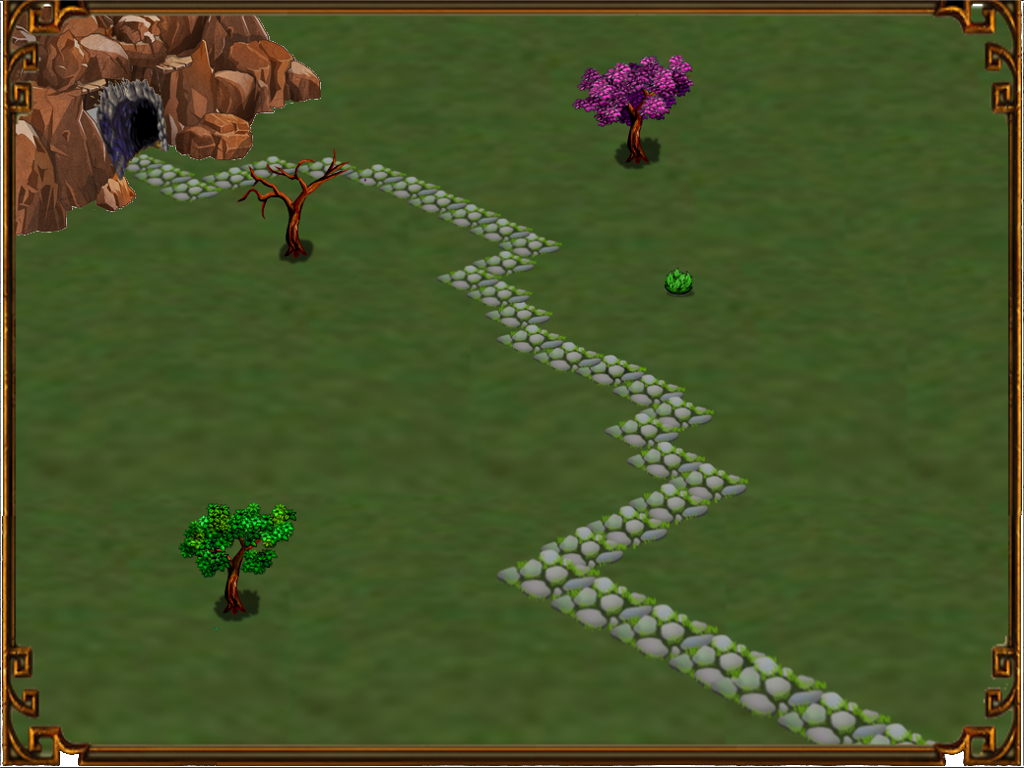
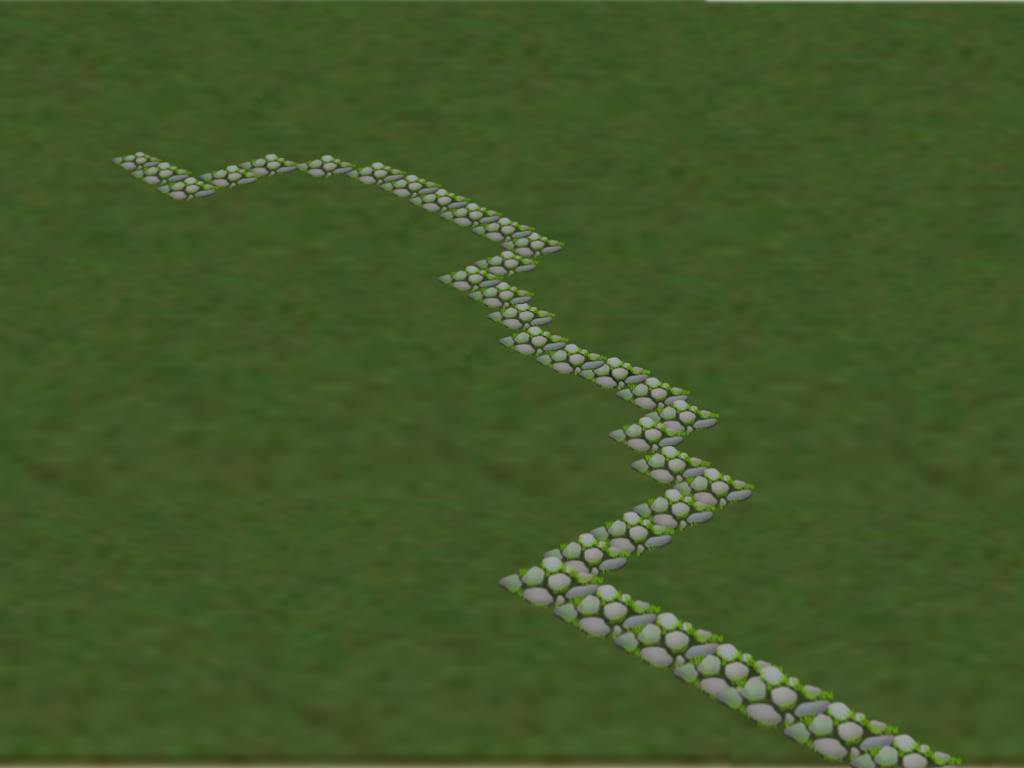
More object instead of background image

diff --git a/src/js/canvas/kineticjs.js b/src/js/canvas/kineticjs.js
@@ -1,5 +1,7 @@
-var kineticjs = function(){
+var kineticjs = function () {
+    var frameLayer = new Kinetic.FastLayer();
     var backgroundLayer = new Kinetic.Layer();
+    var landscapeLayer = new Kinetic.Layer();
     var playerLayer = new Kinetic.Layer();
 
     function loadImages(sources, callback) {
@@ -22,6 +24,23 @@
     }
 
     function buildStage(images) {
+        stage.add(frameLayer);
+        stage.add(backgroundLayer);
+        stage.add(landscapeLayer);
+        stage.add(playerLayer);
+
+        // Frame Layer
+        var frame = new Kinetic.Image({
+            x: 0,
+            y: 0,
+            image: images.frame,
+            width: 1024,
+            height: 768
+        });
+
+        frameLayer.add(frame);
+
+        // Background Layer
         var backgroundImage = new Kinetic.Image({
             x: 0,
             y: 0,
@@ -31,12 +50,8 @@
         });
 
         backgroundLayer.add(backgroundImage);
-        stage.add(backgroundLayer);
-        backgroundLayer.setZIndex(0);
-
         backgroundImage.cache();
         backgroundImage.filters([Kinetic.Filters.Brighten]);
-        backgroundLayer.draw();
 
         var slider = document.getElementById('slider');
         slider.onchange = function () {
@@ -44,6 +59,61 @@
             backgroundLayer.batchDraw();
         };
 
+        // Landscape Layer
+        var pinkTree = new Kinetic.Image({
+            x: 570,
+            y: 50,
+            image: images.pinkTree,
+            width: 132,
+            height: 128
+        });
+
+        var greenTree = new Kinetic.Image({
+            x: 155,
+            y: 490,
+            image: images.greenTree,
+            width: 125,
+            height: 133
+        });
+
+        var brownTree = new Kinetic.Image({
+            x: 220,
+            y: 140,
+            image: images.brownTree,
+            width: 132,
+            height: 128
+        });
+
+        var rock = new Kinetic.Image({
+            x: 0,
+            y: 0,
+            image: images.rock,
+            width: 319,
+            height: 237
+        });
+
+        var bush = new Kinetic.Image({
+            x: 670,
+            y: 270,
+            image: images.bush,
+            width: 33,
+            height: 33
+        });
+
+        landscapeLayer.add(rock);
+        landscapeLayer.add(pinkTree);
+        landscapeLayer.add(greenTree);
+        landscapeLayer.add(brownTree);
+        landscapeLayer.add(bush);
+
+        //backgroundImage.setZIndex(0);
+        //rock.setZIndex(2000);
+        //pinkTree.setZIndex(2000);
+        //greenTree.setZIndex(2000);
+        //brownTree.setZIndex(2000);
+        //bush.setZIndex(2000);
+        
+        // Player layer
         var player = new Kinetic.Sprite({
             x: 300,
             y: 400,
@@ -89,10 +159,16 @@
         });
 
         playerLayer.add(player);
-        stage.add(playerLayer);
         playerLayer.setZIndex(1000);
 
-        var playerEventsCall = playerEvents(player, playerLayer);
+        playerLayer.draw();
+
+        frameLayer.moveToTop();
+        frameLayer.draw();
+        backgroundLayer.draw();
+        landscapeLayer.draw();
+
+        playerEvents(player, playerLayer);
 
         //// in order to ignore transparent pixels in an image when detecting
         //// events, we first need to cache the image
@@ -112,7 +188,13 @@
     });
 
     var sources = {
-        map: 'map.jpg',
+        frame: 'frame.png',
+        map: 'map.png',
+        rock: 'rock.png',
+        greenTree: 'green_tree.png',
+        brownTree: 'brown_tree.png',
+        pinkTree: 'pink_tree.png',
+        bush: 'bush.png',
         player: 'sprites/laila.png'
     };
 
